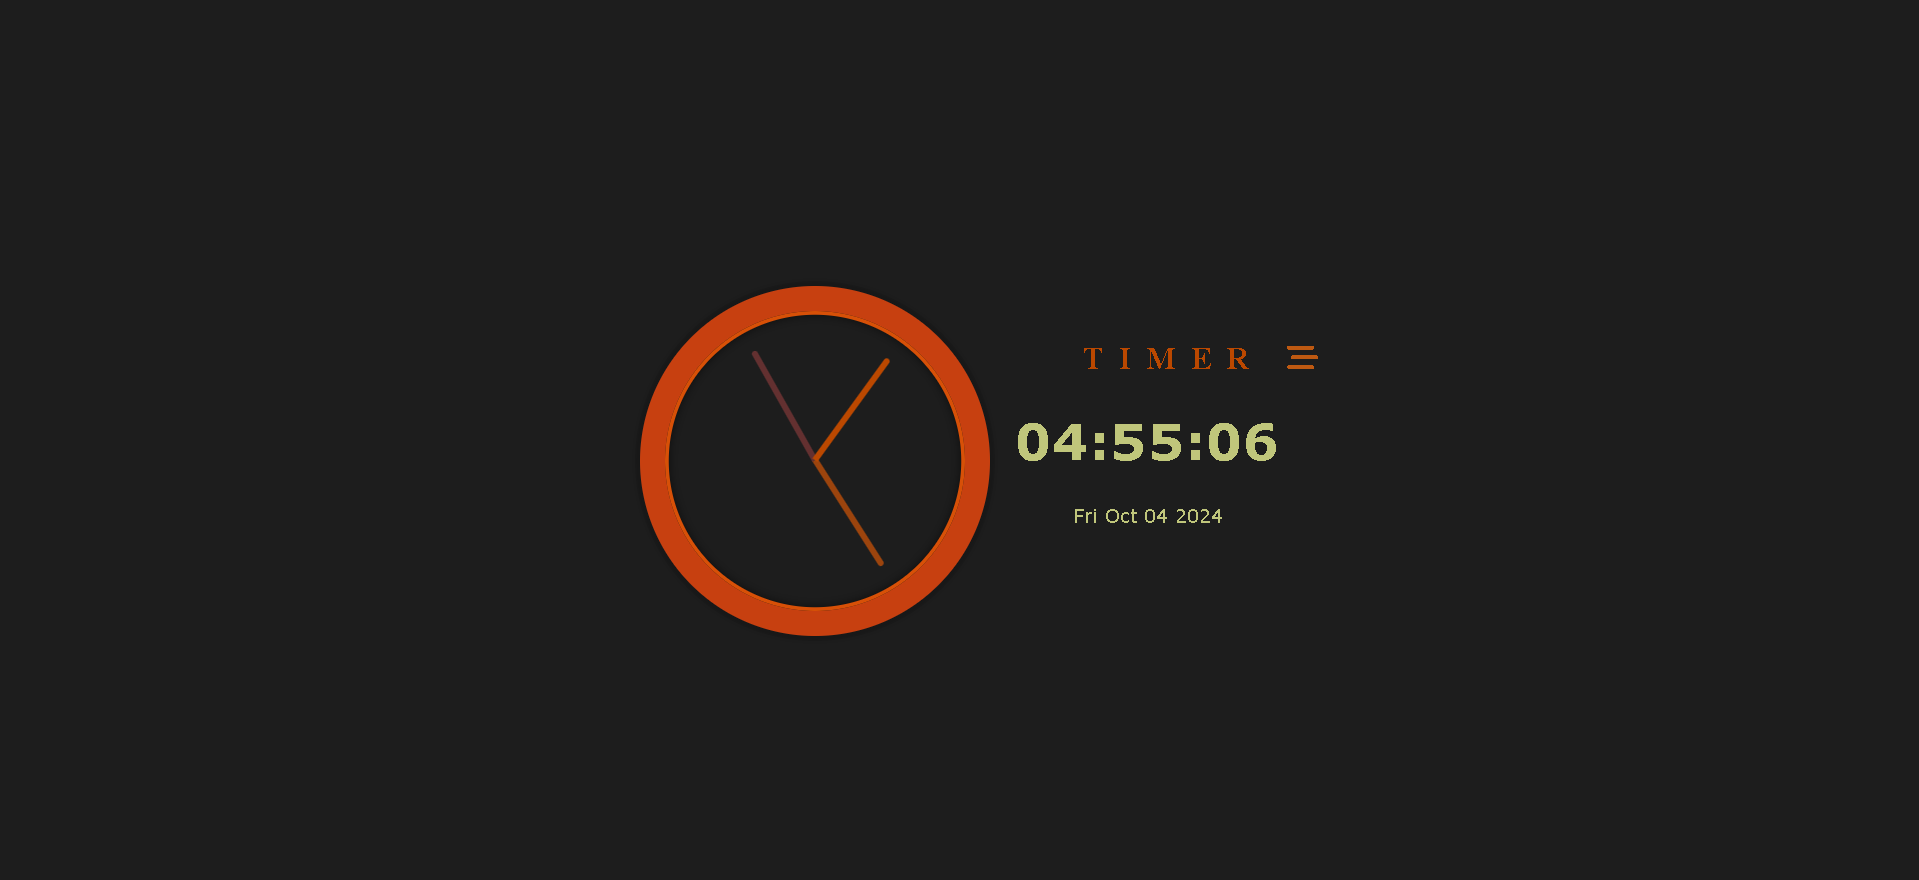
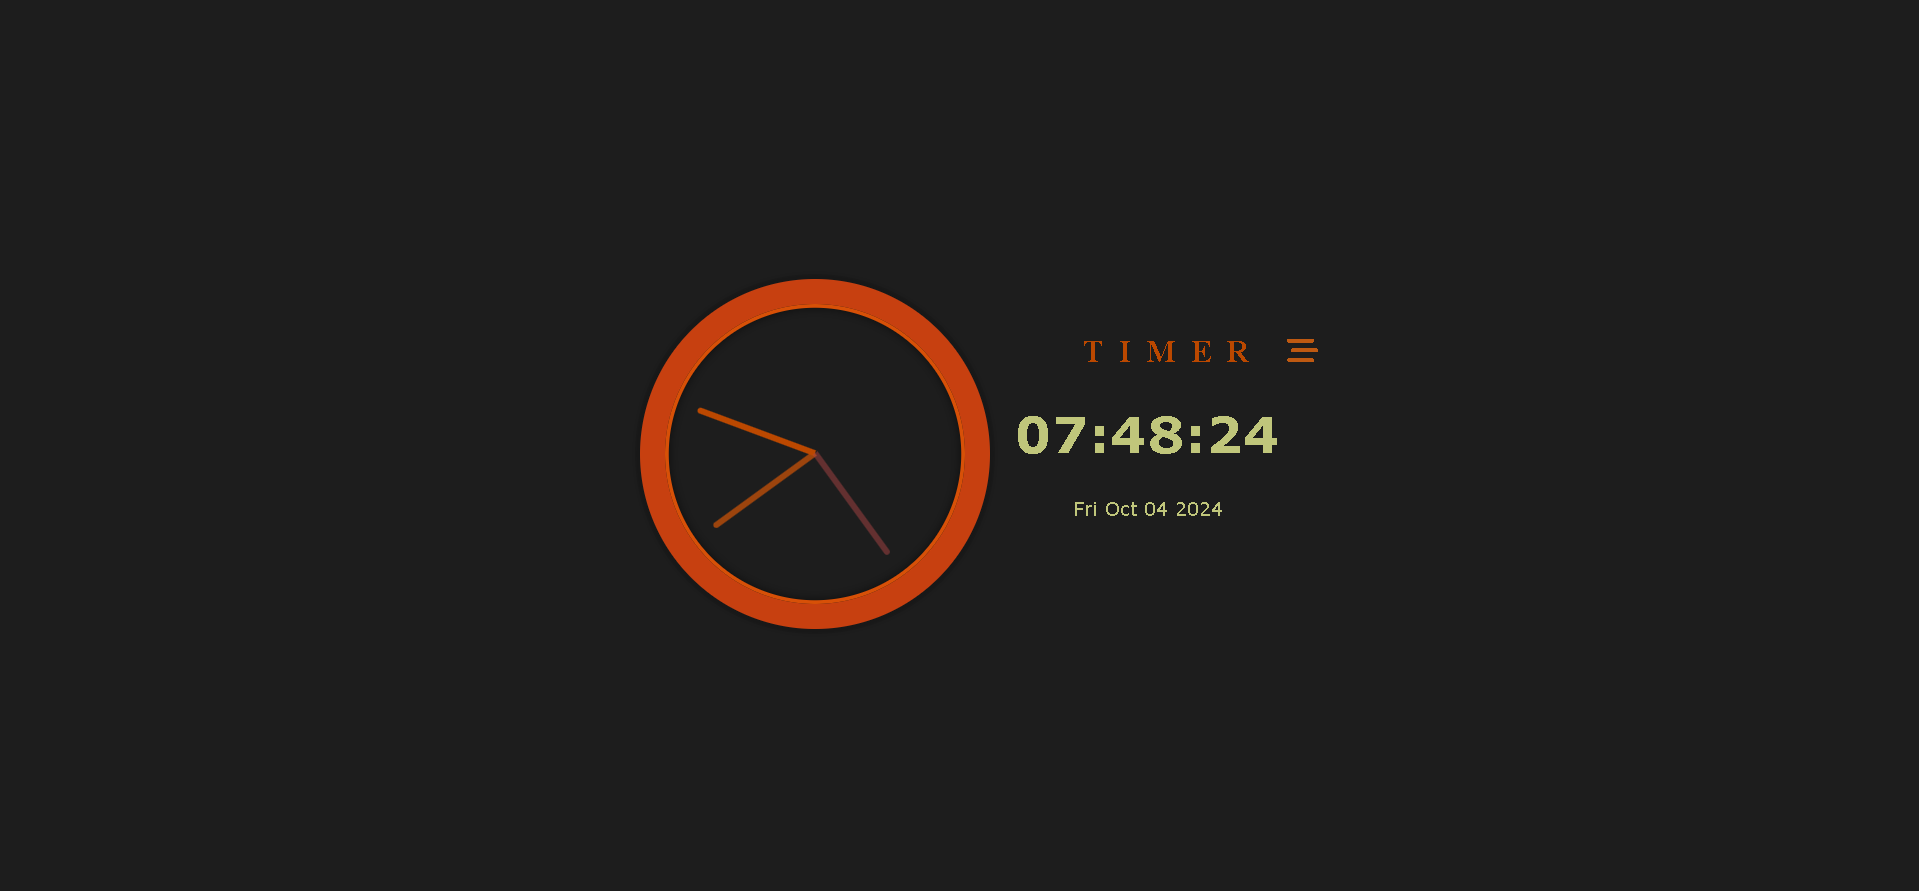
Day - 2 | Clock

Changed region(s): [[0.3382, 0.3068, 0.6764, 0.7364], [0.5842, 0.3682, 0.7071, 0.4295], [0.5534, 0.5523, 0.6456, 0.6136]]

diff --git a/Day 2 - [Clock]/style.css b/Day 2 - [Clock]/style.css
@@ -14,9 +14,10 @@ body {
 }
 
 .title {
-    position: absolute;
+    /* position: absolute;
     right: 47rem;
-    top: 26rem;
+    top: 26rem; */
+    margin-left: 8.33rem;
     color: #BB4800;
     width: fit-content;
     font-size: 1.64vw;
@@ -65,7 +66,7 @@ body {
     transition-timing-function: cubic-bezier(0.1, 2.7, 0.58, 1);
 }
 
-.min-stick {
+.second-stick {
     background: #b0454579;
 }
 
@@ -79,15 +80,17 @@ body {
     color: #d5dc87e2;
     /* color: #e6d842e2; */
     text-align: center;
-    font-family: Verdana, Geneva, Tahoma, sans-serif;
+    /* font-family: Verdana, Geneva, Tahoma, sans-serif; */
 }
 
 #digital-time {
     font-size: 4rem;
     letter-spacing: 0.1rem;
+    font-family: Verdana, Geneva, Tahoma, sans-serif;
 }
 
 #digital-date {
     font-size: 1.5rem;
     margin-top: 10px;
+    font-family: Verdana, Geneva, Tahoma, sans-serif;
 }

diff --git a/Day 2 - [Clock]/index.html b/Day 2 - [Clock]/index.html
@@ -12,7 +12,7 @@
 </head>
 
 <body>
-    <h1 class="title">timer <i class="fa-solid fa-bars-staggered"></i></h1>
+    <!-- <h1 class="title">timer <i class="fa-solid fa-bars-staggered"></i></h1> -->
     <div class="container">
         <!-- Analog Clock -->
         <div class="clock">
@@ -25,6 +25,7 @@
 
         <!-- Digital Clock -->
         <div class="digital-clock">
+            <h1 class="title">timer <i class="fa-solid fa-bars-staggered"></i></h1>
             <h1 id="digital-time">00:00:00</h1>
             <p id="digital-date">Loading Date...</p>
         </div>
